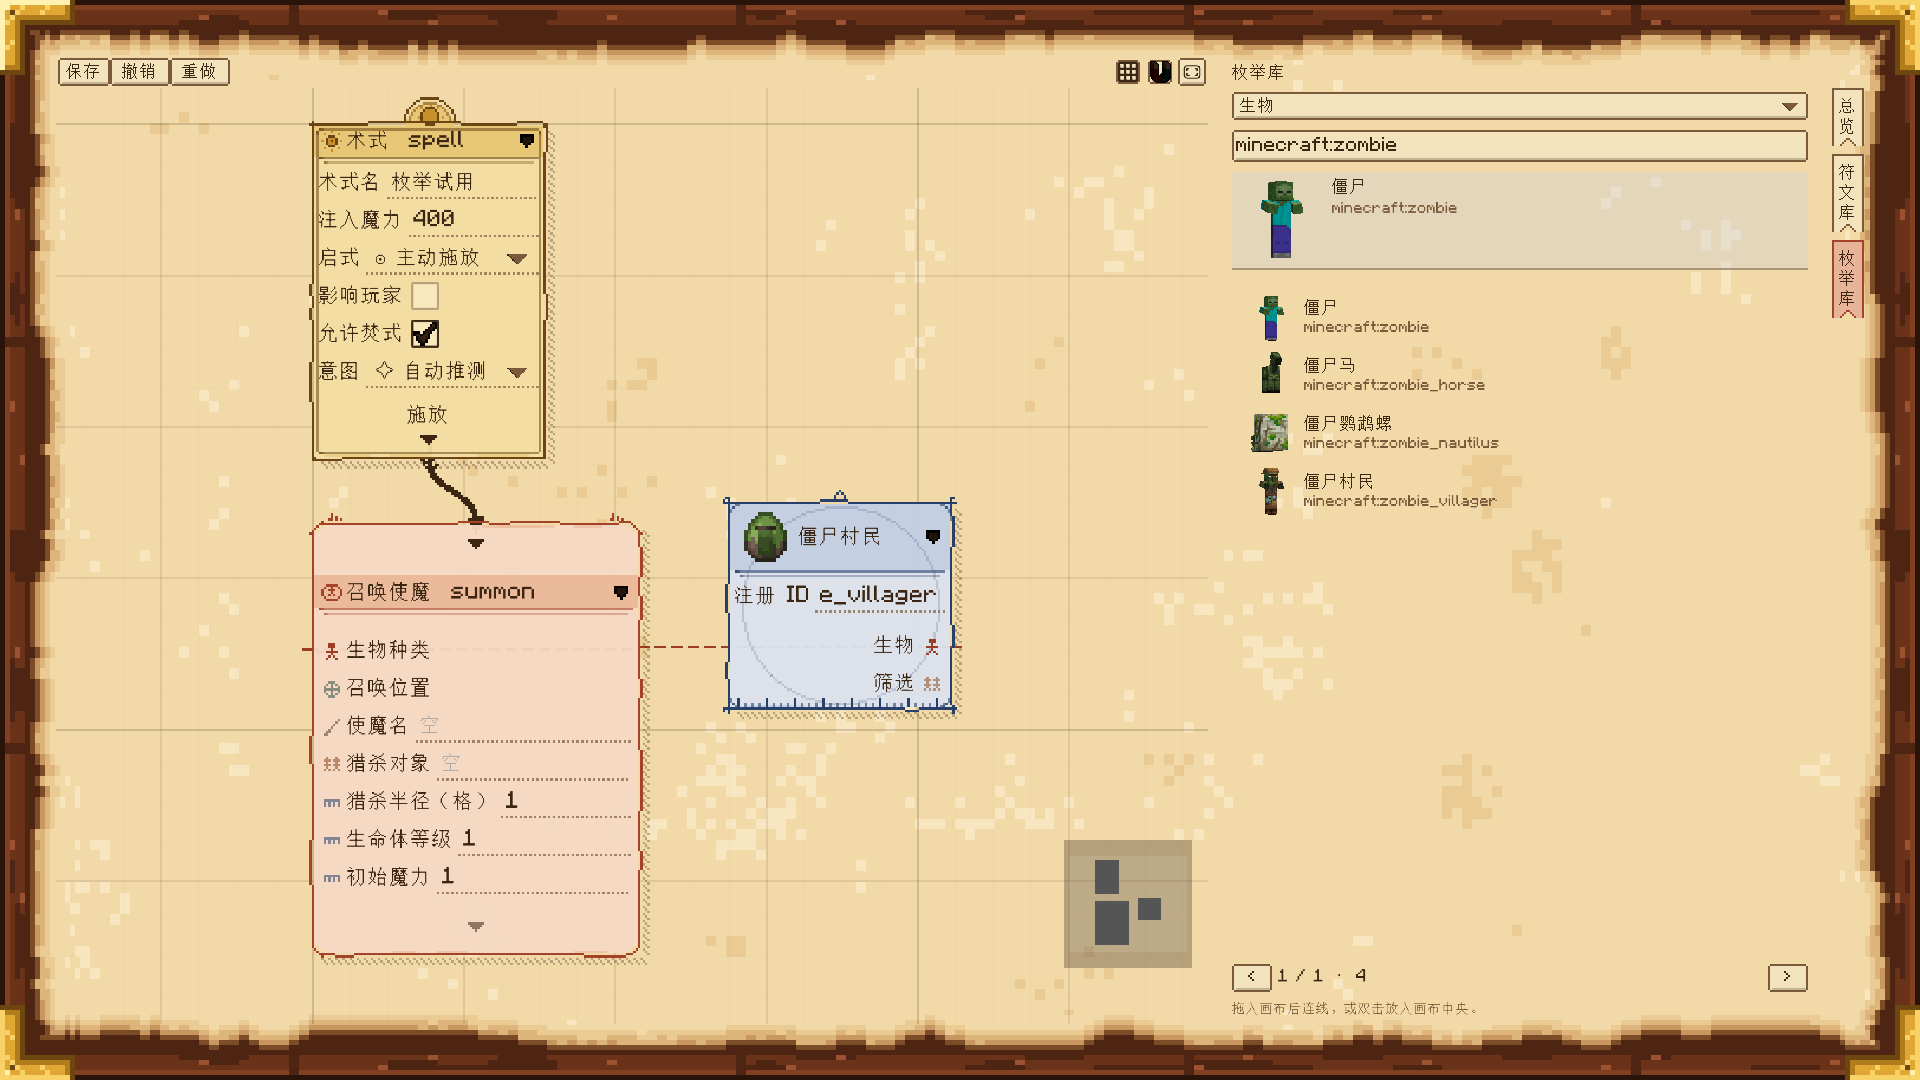
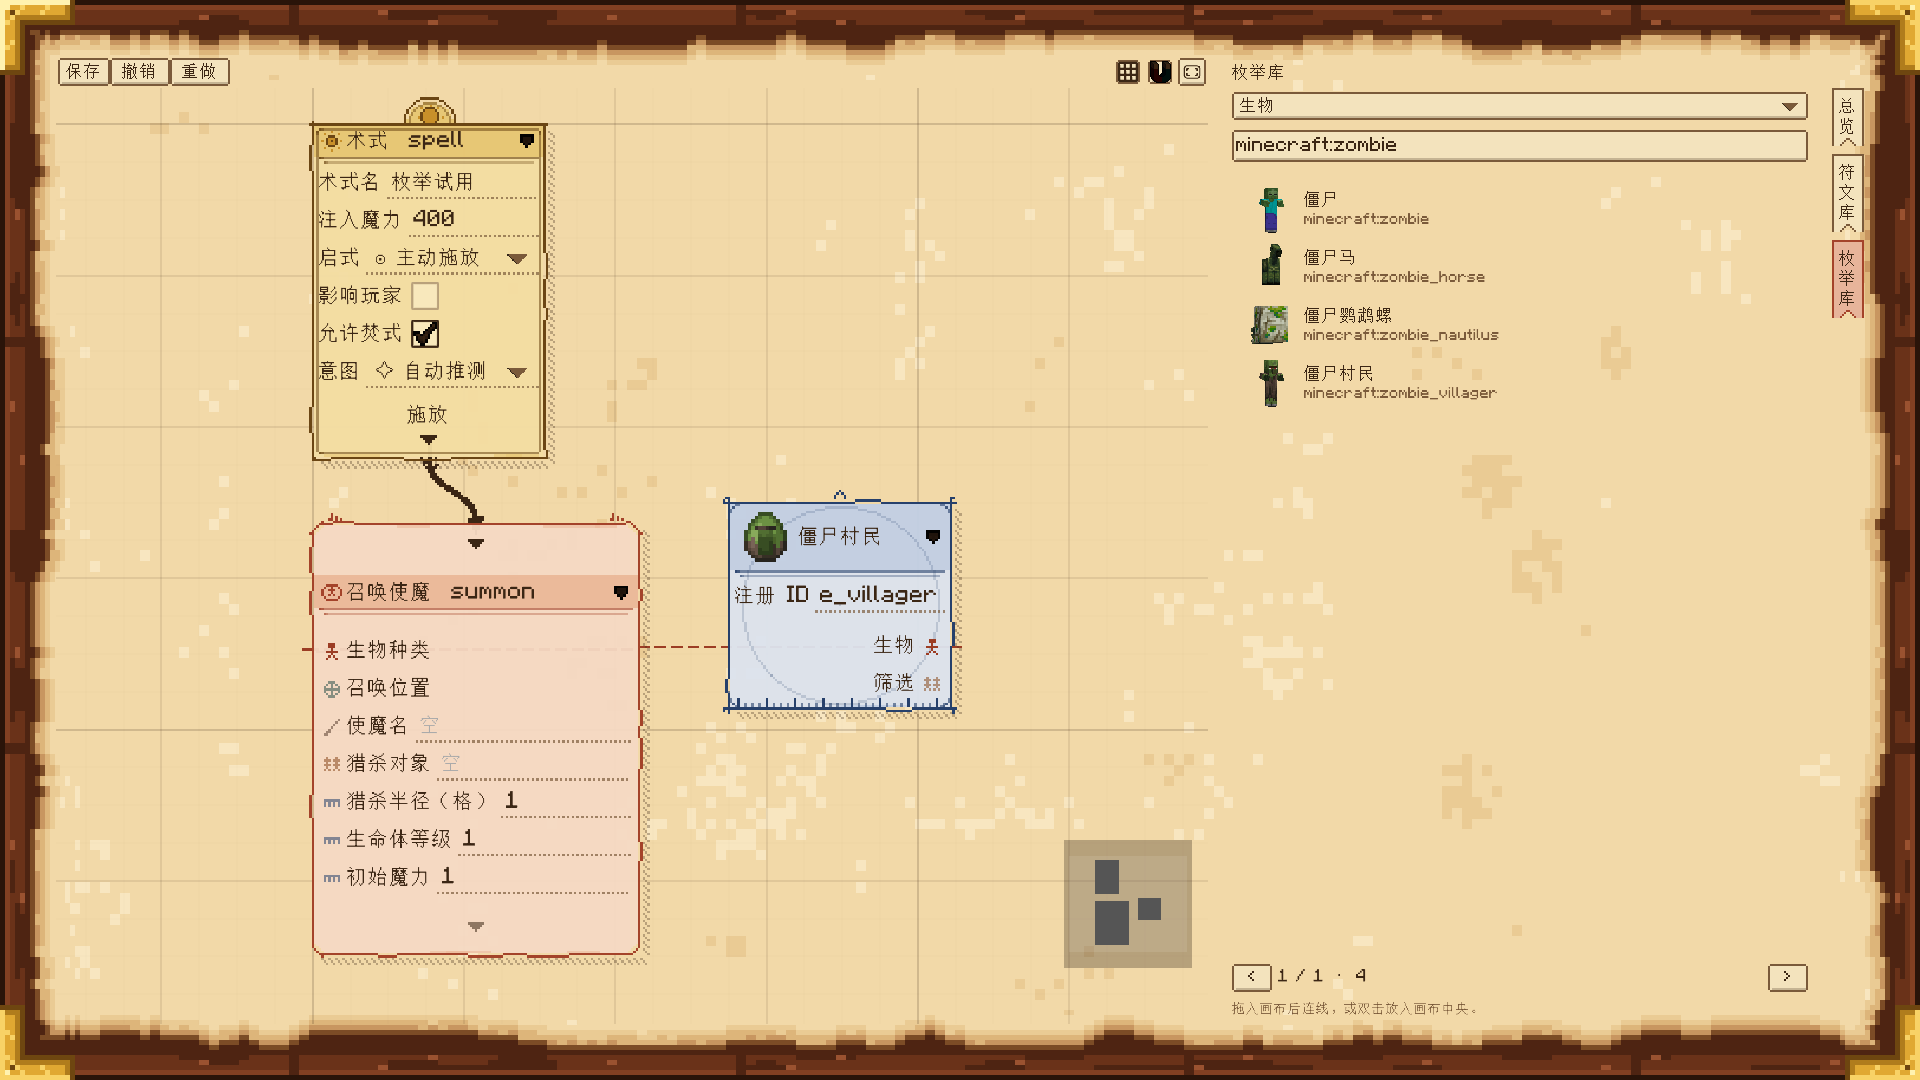
Remove the redundant enum catalogue preview panel (#276)

Changed region(s): [[0.6562, 0.1528, 0.7812, 0.4889], [0.25, 0.4583, 0.2812, 0.4889], [0.1875, 0.0917, 0.2188, 0.1222]]

diff --git a/src/main/java/dev/logos/client/EnumLibrary.java b/src/main/java/dev/logos/client/EnumLibrary.java
@@ -34,7 +34,6 @@ final class EnumLibrary extends UIElement {
     private final TextField search = new TextField();
     private final ScrollerView rows = new ScrollerView();
     private final Label count = new Label();
-    private final UIElement preview = new UIElement();
     private Kind kind = Kind.CREATURE;
     private int page;
 
@@ -57,12 +56,6 @@ final class EnumLibrary extends UIElement {
         search.setTextResponder(value -> { page = 0; rebuild(); });
         search.style(s -> s.tooltips(Component.translatable("logos.enum.search_help")));
         ManuscriptControls.blank(search);
-        preview.setId("enum_preview");
-        preview.layout(l -> l.widthPercent(100).minHeight(49).flexDirection(FlexDirection.ROW).gapAll(4).paddingAll(3));
-        preview.style(s -> s.backgroundTexture((GuiTexture) (context, x, y, w, h) -> {
-            DrawerHelperClient.drawSolidRect(context, x, y, w, h, 0x50C2CFE3);
-            DrawerHelperClient.drawSolidRect(context, x, y + h - 1, w, 1, 0x887A5A3A);
-        }));
         rows.setId("enum_entries");
         rows.layout(l -> l.widthPercent(100).flex(1).minHeight(0));
         rows.style(s -> s.backgroundTexture(IGuiTexture.EMPTY));
@@ -79,7 +72,7 @@ final class EnumLibrary extends UIElement {
         paging.addChildren(previous, count, next);
         Label hint = label(Component.translatable("logos.enum.drag_help"), true);
         hint.textStyle(s -> s.textWrap(TextWrap.WRAP).adaptiveHeight(true));
-        addChildren(title, category, search, preview, rows, paging, hint);
+        addChildren(title, category, search, rows, paging, hint);
     }
 
     void open() { rebuild(); }
@@ -97,8 +90,6 @@ final class EnumLibrary extends UIElement {
         for (int i = first; i < Math.min(found.size(), first + PAGE_SIZE); i++) rows.addScrollViewChild(row(found.get(i)));
         if (found.isEmpty()) rows.addScrollViewChild(label(Component.translatable("logos.enum.empty"), true));
         count.setText(Component.literal((page + 1) + " / " + Math.max(1, (found.size() + PAGE_SIZE - 1) / PAGE_SIZE) + "  ·  " + found.size()));
-        preview.clearAllChildren();
-        if (!found.isEmpty()) select(found.get(first));
         ManuscriptControls.dressList(category);
     }
 
@@ -117,7 +108,6 @@ final class EnumLibrary extends UIElement {
         row.style(s -> s.tooltips(Component.literal(entry.name()), Component.literal(entry.id()),
                 Component.translatable(entry.usable() ? "logos.enum.drag_help" : unavailable(entry.kind()))));
         row.addEventListener(UIEvents.MOUSE_ENTER, event -> {
-            select(entry);
             row.style(s -> s.backgroundTexture((GuiTexture) (context, x, y, w, h) ->
                     DrawerHelperClient.drawSolidRect(context, x, y, w, h, 0x70C2CFE3)));
         });
@@ -128,20 +118,6 @@ final class EnumLibrary extends UIElement {
         });
         row.addEventListener(UIEvents.DOUBLE_CLICK, event -> { if (entry.usable()) place.accept(item); });
         return row;
-    }
-
-    private void select(EnumCatalog.Entry entry) {
-        preview.clearAllChildren();
-        UIElement picture = new UIElement().layout(l -> l.width(43).height(43).flexShrink(0));
-        picture.style(s -> s.backgroundTexture(EnumPreviews.icon(entry.kind(), entry.id())));
-        UIElement text = new UIElement().layout(l -> l.flex(1).minWidth(0).gapAll(3));
-        text.addChildren(label(Component.literal(entry.name()), false), label(Component.literal(entry.id()), true));
-        if (!entry.usable()) {
-            Label note = label(Component.translatable(unavailable(entry.kind())), true);
-            note.textStyle(s -> s.textWrap(TextWrap.WRAP).adaptiveHeight(true));
-            text.addChild(note);
-        }
-        preview.addChildren(picture, text);
     }
 
     static NodeModelLibraryItem item(EnumCatalog.Entry entry) {
